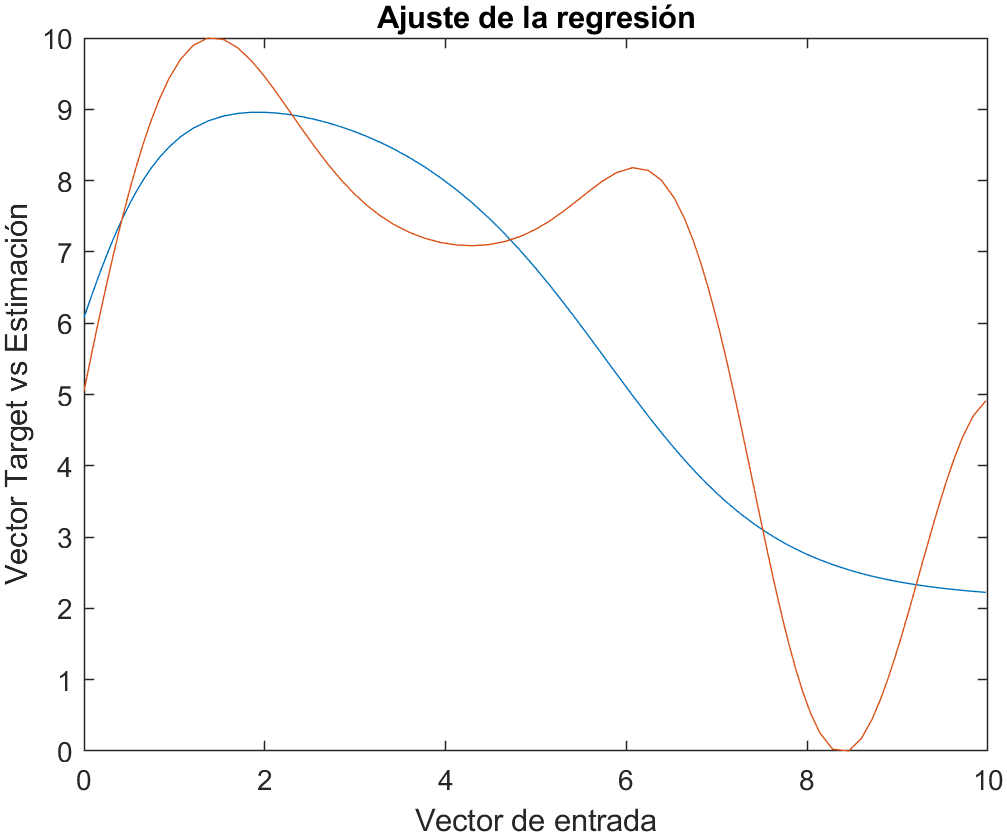
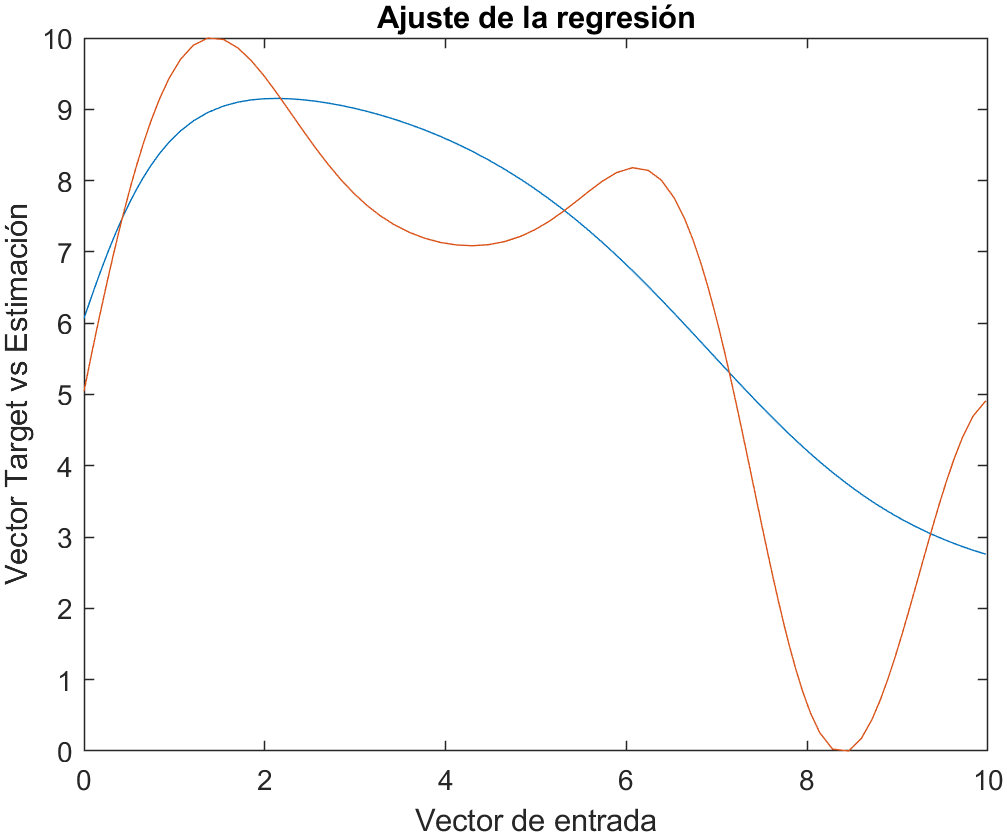
arreglo ej1

diff --git a/S3/Red_neuronal.m b/S3/Red_neuronal.m
@@ -149,7 +149,7 @@ function G = backward_regression(X, T, Y, cache, P, actName, lambda)
 
     dY = 2 * (Y - T) / m; % TODO: dY ✔
     G.dW2 = dY * A1' + lambda * P.W2; % TODO: dW2 ✔
-    G.db2 = sum(dY, 2); % TODO: db2 ✔
+    G.db2 = sum(dY, 2) + lambda * P.b2; % TODO: db2 ✔
 
     dA1 = P.W2' * dY; % TODO: dA1 ✔
     switch lower(actName)
@@ -160,14 +160,13 @@ function G = backward_regression(X, T, Y, cache, P, actName, lambda)
         otherwise, dZ1 = dA1; % fallback
     end
     
-    G.dW1 = dZ1 * X'; % TODO: dW1 ✔
-    G.db1 = sum(dZ1, 2); % TODO: db1 ✔
+    G.dW1 = dZ1 * X' + lambda * P.W1; % TODO: dW1 ✔
+    G.db1 = sum(dZ1, 2) + lambda * P.b1; % TODO: db1 ✔
 end
 
 
 % Apartado 5
 function m = mse_loss(Y, T)
 % MSE medio por muestra y salida (independiente de dimensiones)
-    C = size(T,1);
-    m = mean(((Y - T)/C).^2); % TODO: calcular MSE ✔
+    m = mean((Y - T).^2, 'all'); % TODO: calcular MSE ✔ ('all': media sobre todas las salidas y muestras)
 end
